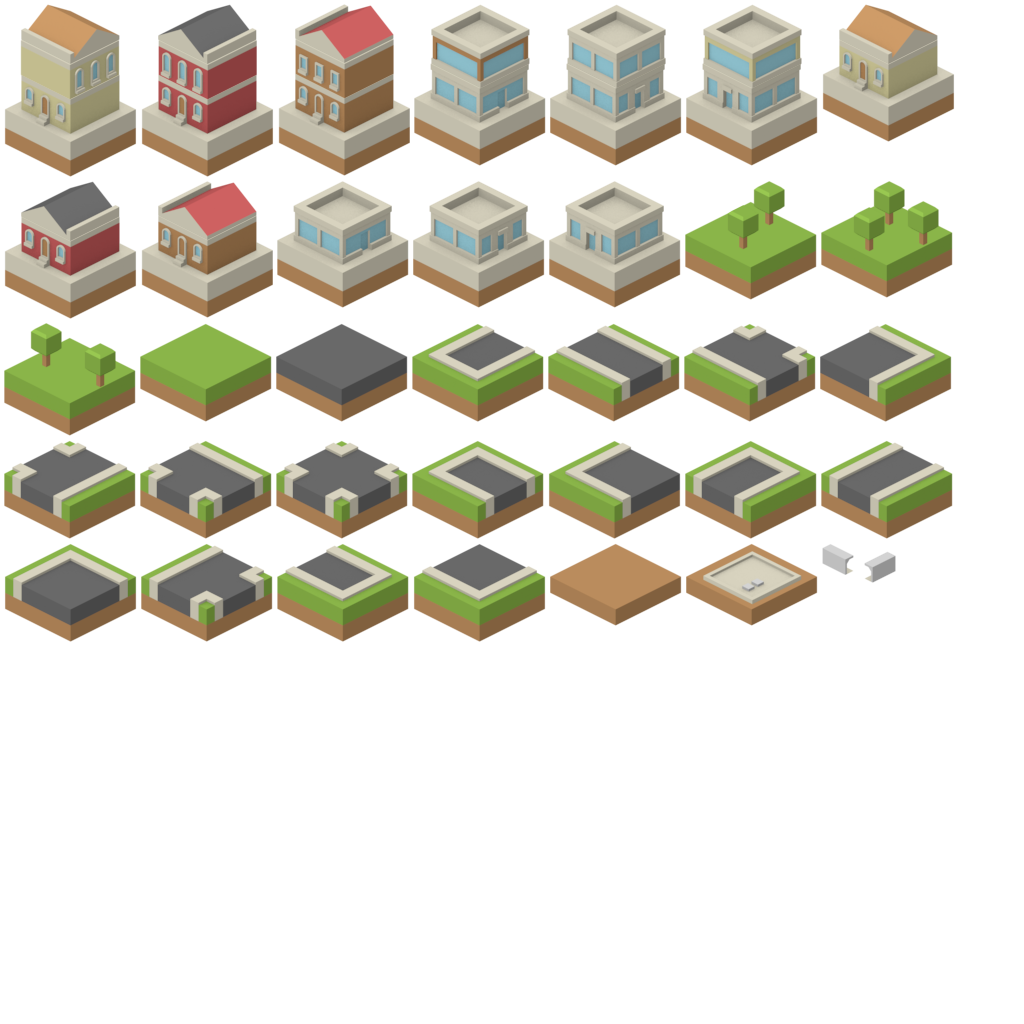
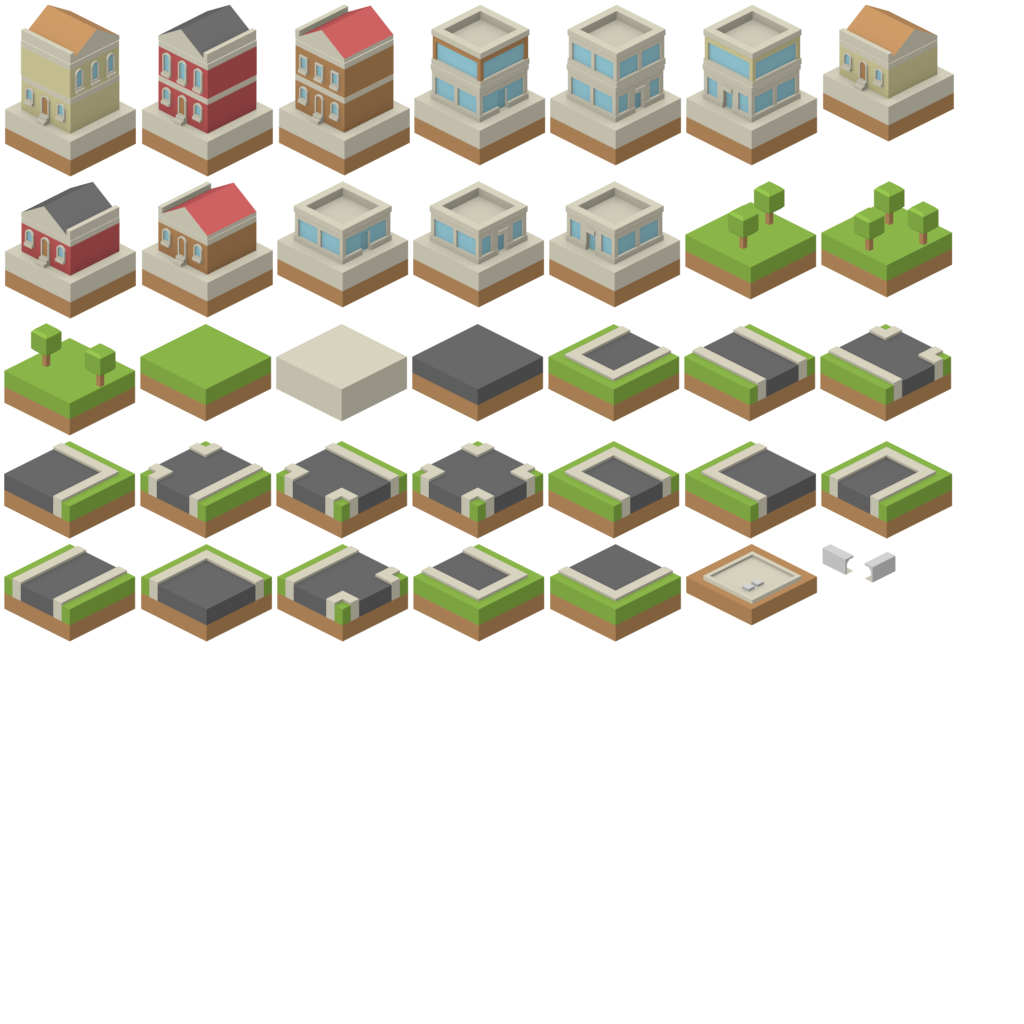
Layer 0: offline launch, a clearer empty lot, and a dev demo
- The service worker now keeps the page, its script and stylesheet, the
  atlas and the icons at install time, and serves kept files whatever
  Vary header the host adds. Checked by loading the built site with the
  server stopped.
- Empty zoned lots use a pale paved tile, so the zone tint reads clearly.
- Dev builds only: window.__campus for the console, and ?demo, which
  shows a small tended campus without touching the saved game. It is
  what the screenshot in docs/screenshots was taken from.
- Tool hints mention that two fingers move the map while a tool is held.

diff --git a/src/app/devtools.ts b/src/app/devtools.ts
@@ -1,0 +1,45 @@
+import { advance, applyAction, newGame, rowBetween, type GameState, type Point, type Tool } from '../sim';
+import { clock } from './clock';
+import { session } from './session';
+import { store } from './store';
+
+/**
+ * Dev builds only. Never shipped: main.ts loads this file behind a dev check.
+ *
+ * - `window.__campus` exposes the store, session and clock to the console.
+ * - Opening the page with `?demo` shows a small tended campus that is about an
+ *   hour old, without touching the saved game. It is what the screenshot
+ *   script photographs.
+ */
+
+function paint(state: GameState, tool: Tool, cells: Point[]): GameState {
+  const result = applyAction(state, { type: 'paint', tool, cells });
+  return result.ok ? result.state : state;
+}
+
+/** A campus a careful player might have after their first session. */
+function demoCampus(): GameState {
+  const now = clock.now();
+  const started = now - 75 * 60_000;
+  let state = newGame({ seed: 20261111, name: 'Larkspur University', now: started });
+  state.money.cash = 900_000;
+
+  // Session one, before move-in: a cross street, two quads, and rows of lots.
+  state = paint(state, 'path', [...rowBetween([19, 8], [19, 13]), ...rowBetween([12, 18], [12, 23])]);
+  state = paint(state, 'quad', [[21, 12], [22, 12], [9, 19], [10, 19], [16, 12]]);
+  state = paint(state, 'academic', [...rowBetween([20, 13], [23, 13]), ...rowBetween([20, 9], [20, 11]), ...rowBetween([15, 13], [17, 13])]);
+  state = paint(state, 'housing', [...rowBetween([8, 18], [11, 18]), ...rowBetween([13, 19], [13, 22]), ...rowBetween([13, 18], [16, 18])]);
+  state = advance(state, started, started + 40 * 60_000).state;
+
+  // A second visit: one more row, left without green space so it stalls at stage one.
+  state = paint(state, 'housing', rowBetween([4, 13], [9, 13]));
+  state = paint(state, 'path', rowBetween([4, 14], [7, 14]));
+  return advance(state, state.clock.lastSimulatedAt, now).state;
+}
+
+export function installDevTools(): void {
+  (window as unknown as Record<string, unknown>).__campus = { store, session, clock };
+  if (new URLSearchParams(window.location.search).has('demo')) {
+    store.adopt(demoCampus(), { ephemeral: true });
+  }
+}

diff --git a/public/sw.js b/public/sw.js
@@ -1,11 +1,43 @@
 /*
  * Service worker for the home-screen app. It keeps a copy of everything the
- * game loads, so the game opens with no connection. Pages are fetched fresh
- * when there is a connection, so a new build shows up on the next launch.
+ * game needs, so the game opens with no connection. When there is a
+ * connection every file is fetched fresh, so a new build shows up on the next
+ * launch.
  */
 const CACHE = 'campus-tycoon-v1';
 
-self.addEventListener('install', () => self.skipWaiting());
+const SHELL = [
+  './',
+  './manifest.webmanifest',
+  './icons/icon-192.png',
+  './icons/apple-touch-icon.png',
+  './assets/manifest.json',
+  './assets/atlas.json',
+  './assets/atlas.png',
+];
+
+/** The page names its own script and stylesheet, so read them from it. */
+async function shellFiles() {
+  const files = [...SHELL];
+  try {
+    const page = await (await fetch('./', { cache: 'no-store' })).text();
+    for (const match of page.matchAll(/(?:src|href)="(\.\/assets\/[^"]+)"/g)) files.push(match[1]);
+  } catch {
+    // Offline during install: keep what we can.
+  }
+  return [...new Set(files)];
+}
+
+self.addEventListener('install', (event) => {
+  event.waitUntil(
+    (async () => {
+      const cache = await caches.open(CACHE);
+      const files = await shellFiles();
+      await Promise.all(files.map((file) => cache.add(file).catch(() => undefined)));
+      await self.skipWaiting();
+    })(),
+  );
+});
 
 self.addEventListener('activate', (event) => {
   event.waitUntil(
@@ -27,7 +59,11 @@ self.addEventListener('fetch', (event) => {
         if (fresh.ok) cache.put(request, fresh.clone());
         return fresh;
       } catch (err) {
-        const kept = (await cache.match(request)) ?? (request.mode === 'navigate' ? await cache.match('./') : undefined);
+        // Some hosts mark files as varying by origin. The copies kept here are good for any request.
+        const loose = { ignoreSearch: true, ignoreVary: true };
+        const kept =
+          (await cache.match(request, loose)) ??
+          (request.mode === 'navigate' ? await cache.match('./', loose) : undefined);
         if (kept) return kept;
         throw err;
       }

diff --git a/src/app/store.ts b/src/app/store.ts
@@ -40,6 +40,8 @@ export class Store {
   private saveTimer: ReturnType<typeof setTimeout> | null = null;
   private heartbeat: ReturnType<typeof setInterval> | null = null;
   private lastSavedTick = -1;
+  /** When true the game is never written to storage. Used by the dev demo. */
+  private ephemeral = false;
 
   /** Set when the player returns after a while. The UI shows it once and clears it. */
   away: AwayReport | null = null;
@@ -68,6 +70,7 @@ export class Store {
 
   /** Load the saved game, falling back to the backup. Returns whether a game was loaded. */
   async load(): Promise<boolean> {
+    if (this.current) return true;
     const stored = await readSaves();
     for (const [label, text] of [
       ['save', stored.save],
@@ -86,8 +89,18 @@ export class Store {
     return false;
   }
 
+  /** Show a game that was built elsewhere, such as the dev demo. */
+  adopt(state: GameState, options: { ephemeral: boolean }): void {
+    this.current = state;
+    this.ephemeral = options.ephemeral;
+    this.away = null;
+    this.recent = [];
+    this.emit();
+  }
+
   startNewGame(name: string): void {
     clock.reset();
+    this.ephemeral = false;
     const seed = crypto.getRandomValues(new Uint32Array(1))[0] ?? 1;
     this.current = newGame({ seed, name, now: clock.now() });
     this.away = null;
@@ -173,7 +186,7 @@ export class Store {
       clearTimeout(this.saveTimer);
       this.saveTimer = null;
     }
-    if (!this.current) return;
+    if (!this.current || this.ephemeral) return;
     this.lastSavedTick = this.current.clock.tick;
     void writeSave(serialize(this.current, clock.now())).catch(() => {
       // Storage can fail in private browsing. The game keeps running in memory.

diff --git a/src/ui/ui.ts b/src/ui/ui.ts
@@ -47,11 +47,11 @@ const MILESTONE_LABEL = {
 
 const TOOLS: Array<{ id: ToolChoice; label: string; hint: string }> = [
   { id: 'look', label: 'Look', hint: '' },
-  { id: 'housing', label: 'Housing', hint: `Drag to zone a row. ${dollars(COST.zoneLot)} a lot.` },
-  { id: 'academic', label: 'Academic', hint: `Drag to zone a row. ${dollars(COST.zoneLot)} a lot.` },
-  { id: 'path', label: 'Path', hint: `Drag to lay a path. ${dollars(COST.path)} a cell.` },
-  { id: 'quad', label: 'Quad', hint: `Drag to plant a quad. ${dollars(COST.quad)} a cell.` },
-  { id: 'clear', label: 'Clear', hint: `Drag to clear. ${dollars(COST.clear)} a cell.` },
+  { id: 'housing', label: 'Housing', hint: `Drag a row of dorm lots · ${dollars(COST.zoneLot)} each · two fingers move the map` },
+  { id: 'academic', label: 'Academic', hint: `Drag a row of lecture-hall lots · ${dollars(COST.zoneLot)} each · two fingers move the map` },
+  { id: 'path', label: 'Path', hint: `Drag to lay a path · ${dollars(COST.path)} a cell` },
+  { id: 'quad', label: 'Quad', hint: `Drag to plant a quad · ${dollars(COST.quad)} a cell` },
+  { id: 'clear', label: 'Clear', hint: `Drag to clear · ${dollars(COST.clear)} a cell` },
 ];
 
 const TOOL_NOUN: Record<Exclude<ToolChoice, 'look'>, [string, string]> = {

diff --git a/src/main.ts b/src/main.ts
@@ -5,6 +5,10 @@ import { mountUi } from './ui/ui';
 
 /** Boot: load the save, catch the sim up to now, then start the map and the HUD. */
 async function boot(): Promise<void> {
+  if (import.meta.env.DEV) {
+    const { installDevTools } = await import('./app/devtools');
+    installDevTools();
+  }
   await store.load();
   store.start();
 

diff --git a/src/ui/ui.css b/src/ui/ui.css
@@ -321,9 +321,10 @@ button:active {
   border-radius: 999px;
   background: var(--panel-solid);
   border: 1px solid var(--line);
-  font-size: 13px;
+  font-size: 12.5px;
   font-weight: 600;
-  white-space: nowrap;
+  text-align: center;
+  width: max-content;
   display: none;
   pointer-events: none !important;
 }
